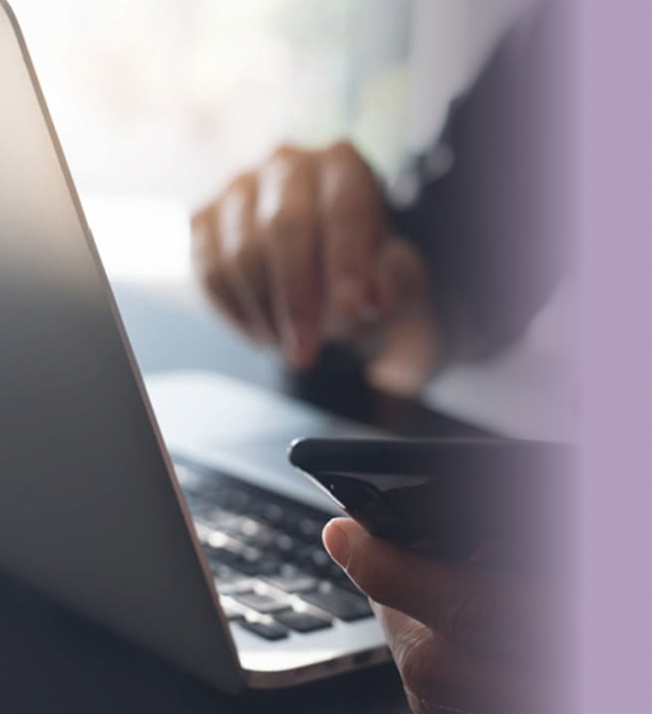
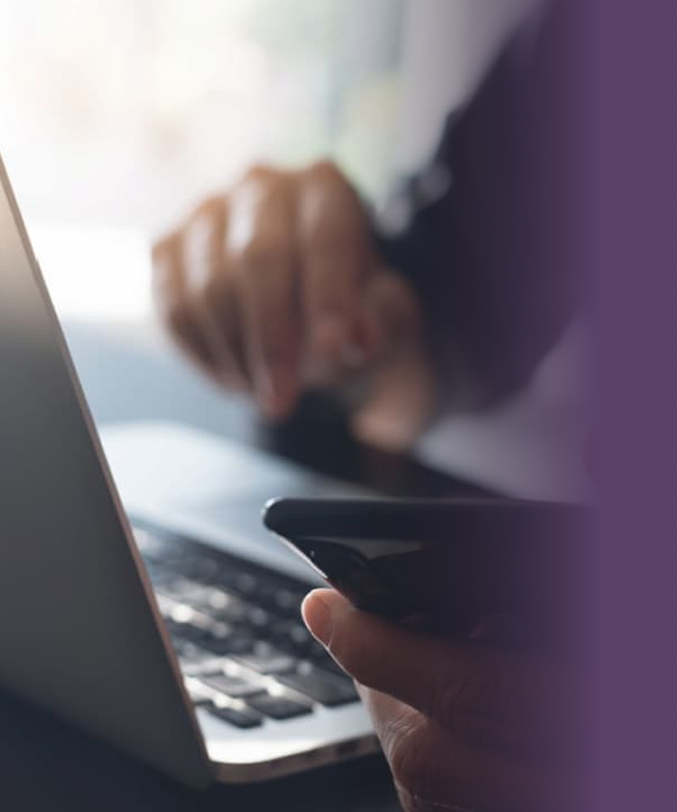
Alterado o css da tela de login e cadastro de usuário

diff --git a/Projeto/CSS/TelaLogin.css b/Projeto/CSS/TelaLogin.css
@@ -1,6 +1,8 @@
 @import url('https://fonts.googleapis.com/css2?family=Roboto:ital,wght@0,100..900;1,100..900&display=swap');
 
 body {
+    display: flex;
+    flex-direction: column;
     margin: 0;
     padding: 0;
     font-family: 'Roboto', sans-serif;
@@ -8,9 +10,11 @@ body {
 
 
 .corpo {
+     background-size: contain;
     display: flex;
+    flex-direction: column;
     padding: 0;
-    padding-top: 8%;
+    background-color: #5A4168;
     padding-bottom: 8%;
     margin: 0;
     flex-direction: column;
@@ -18,9 +22,14 @@ body {
     align-items: flex-end;
     background-image: url(../Assets/computador.png);
     background-repeat: no-repeat;
-    background-color: #B29FBD;
     background-position: bottom-center;
+    color: #ffffff;
    
+}
+
+.corpo h1 {
+    margin-right: 3%;
+
 }
 
 .container {
@@ -50,7 +59,7 @@ body {
     border-bottom-left-radius: 190px;
     border-top-left-radius: 190px;
     text-align: right;
-    background-color: #867391;
+    background-color: #CC9CE7;
     margin: 0;
     font-family: 'Roboto', sans-serif;
     padding-top: 30px;
@@ -63,7 +72,7 @@ body {
 
 
 input {
-    background-color: #cb9ce77f;
+    background-color: #ffffff;
     border: none;
     width: 75%;
     height: 30px;

diff --git a/Projeto/HTML/TelaLogin.html b/Projeto/HTML/TelaLogin.html
@@ -23,22 +23,24 @@
 
 <body>
 
+    
     <div id="pop1"class="pop">
-    <div id="up1"class="up">
-
-    <p>Insira um email válido</p>
-
-    <button onclick="fechar()">Fechar</button> </div> </div>
-
-    <div id="pop2"class="pop">
-    <div id="up2"class="up">
-
-    <p>Insira uma senha válida</p>
-
-    <button onclick="fechar()">Fechar</button> </div> </div>
-
-
-    <div class="corpo">
+        <div id="up1"class="up">
+            
+            <p>Insira um email válido</p>
+            
+            <button onclick="fechar()">Fechar</button> </div> </div>
+            
+            <div id="pop2"class="pop">
+                <div id="up2"class="up">
+                    
+                    <p>Insira uma senha válida</p>
+                    
+                    <button onclick="fechar()">Fechar</button> </div> </div>
+                    
+                    
+                    <div class="corpo">
+        <h1>Login<br><b>Usuário</b></h1>
 
         <div class="login">
             <div class="container">

diff --git a/Projeto/CSS/cadastroUsuario.css b/Projeto/CSS/cadastroUsuario.css
@@ -8,20 +8,28 @@ body {
 
 
 .corpo{
+    display: flex;
+    flex-direction: column;
     margin: none;
-    background-color: #B29FBD;
+    background-color: #5A4168;
     background-image: url(../Assets/mulher\ no\ telefone.png);
     background-repeat: no-repeat;
     background-position: right;
+     background-size: contain;
+    color: #ffffff;
+   
+    
 }
+.corpo h1 {
+    margin-left: 3%;
 
+}
 
 
 .cadastro {
     display: flex;
-    margin-top: 5%;
     margin-bottom: 5%;
-    background-color: #867391;
+    background-color: #CC9CE7;
     width: 60%;
     border-bottom-right-radius: 250px;
     border-top-right-radius: 250px;
@@ -80,7 +88,7 @@ body {
 
 
 input {
-    background-color: #cb9ce77f;
+    background-color: #ffffff;
     border: none;
     width: 75%;
     height: 30px;

diff --git a/Projeto/HTML/TelaCadastroUsuario.html b/Projeto/HTML/TelaCadastroUsuario.html
@@ -78,6 +78,7 @@
     </div>
 
     <div class="corpo">
+           <h1>Cadastro<br><b>Usuário</b></h1>
 
         <div class="cadastro">
             <div class="linha">
